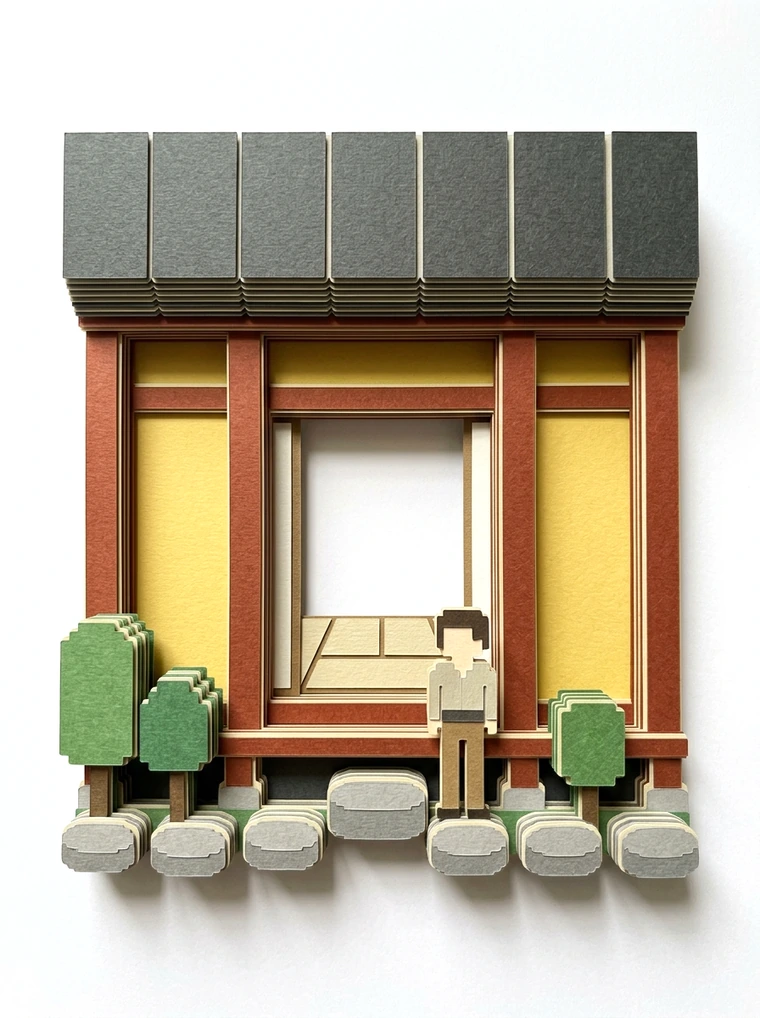
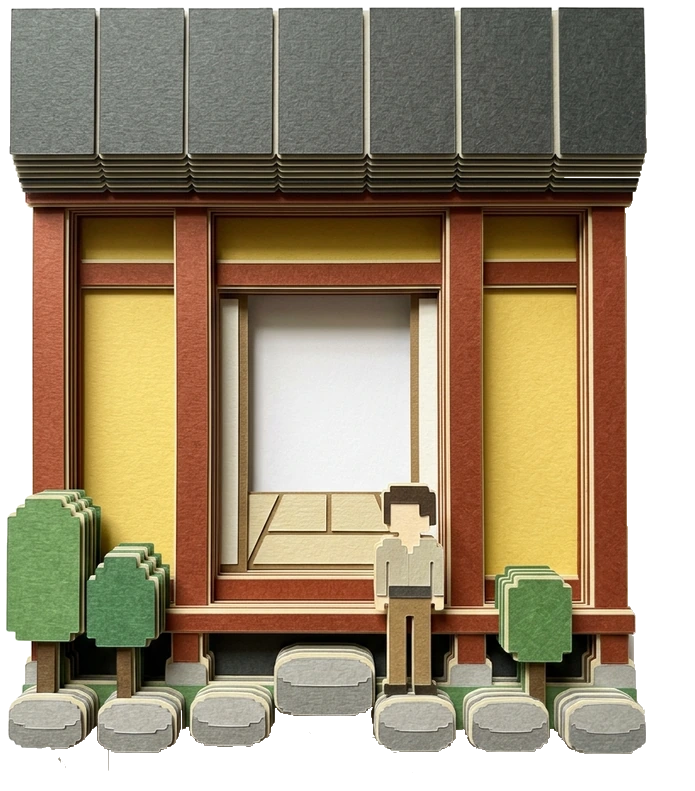
地を完全に白へ抜き、帯では組みを版から出っ張らせる
隣の画素との差で広げる塗りつぶしに変え、なだらかな影の縁で切れないようにした。
二枚は同じ枠で切る。帯では絵を版に刷らず、手前へ浮かせた板として置く。

diff --git a/src/webgl/Ribbon.tsx b/src/webgl/Ribbon.tsx
@@ -13,6 +13,8 @@ import {
   plateVertexShader,
   shadowFragmentShader,
   shadowVertexShader,
+  artFragmentShader,
+  artVertexShader,
 } from "./shaders";
 import { plateParamsFor } from "@/lib/plateParams";
 import { labelTexture, plateLabel } from "./labelTexture";
@@ -30,6 +32,9 @@ const DEPTH_K = 1.5; // 奥行きへの倒し込み
 const LERP = 0.1; // ポインタ／ドラッグ追従
 const HOVER_SHIFT = 0.26;
 const SHADOW_PAD = 1.34;
+// 組みを版から浮かせる高さ。判面の幅を100mmとみて、だいたい1cmぶん。
+// 斜めから見たときに、版から出っ張っていることが分かる量。
+const ART_LIFT = 0.11;
 
 const PAPER = new THREE.Color("#fffefb");
 const INK = new THREE.Color("#121110");
@@ -43,6 +48,10 @@ type Tile = {
   mesh: THREE.Mesh<THREE.PlaneGeometry, THREE.ShaderMaterial>;
   shadow: THREE.Mesh<THREE.PlaneGeometry, THREE.ShaderMaterial>;
   hit: THREE.Mesh;
+  /** 版から浮かせて置く組みと、その影。絵を持つCASEだけ。 */
+  art: THREE.Mesh<THREE.PlaneGeometry, THREE.ShaderMaterial> | null;
+  artShadow: THREE.Mesh<THREE.PlaneGeometry, THREE.ShaderMaterial> | null;
+  artReady: (() => boolean) | null;
   progress: { v: number };
   fade: { v: number };
   hovered: boolean;
@@ -149,7 +158,6 @@ export default function Ribbon({
     );
     const hitGeometry = new THREE.PlaneGeometry(CARD_W * 1.02, CARD_H * 1.02, 1, 1);
     const tiles: Tile[] = [];
-    const tilesArt: { art: ReturnType<typeof artFor>; material: THREE.ShaderMaterial }[] = [];
     const ribbon = Array.from({ length: cases.length * REPEATS }, (_, i) => i);
     const HALF = (ribbon.length * SPACING) / 2;
 
@@ -188,8 +196,6 @@ export default function Ribbon({
           uHasArt: { value: 0 },
         },
       });
-      // 絵は非同期で届く。届くまでは作図プログラムの絵を見せておく。
-      if (art) tilesArt.push({ art, material });
 
       const mesh = new THREE.Mesh(geometry, material);
 
@@ -216,6 +222,50 @@ export default function Ribbon({
       shifter.add(shadow);
       shifter.add(mesh);
 
+      // 絵を持つCASEは、版に刷らずに版の手前へ浮かせて置く。
+      // こうすると斜めから見たとき、組みが版から出っ張って見える。
+      let artMesh: THREE.Mesh<THREE.PlaneGeometry, THREE.ShaderMaterial> | null = null;
+      let artShadow: THREE.Mesh<THREE.PlaneGeometry, THREE.ShaderMaterial> | null = null;
+      if (art) {
+        const uniforms = () => ({
+          uArtA: { value: art.before },
+          uArtB: { value: art.after },
+          uProgress: { value: 0 },
+          uFade: { value: 1 },
+          uAppear: { value: 0 },
+          uShadow: { value: 0 },
+        });
+        const artMat = new THREE.ShaderMaterial({
+          vertexShader: artVertexShader,
+          fragmentShader: artFragmentShader,
+          transparent: true,
+          depthWrite: false,
+          uniforms: uniforms(),
+        });
+        const shMat = new THREE.ShaderMaterial({
+          vertexShader: artVertexShader,
+          fragmentShader: artFragmentShader,
+          transparent: true,
+          depthWrite: false,
+          uniforms: { ...uniforms(), uShadow: { value: 1 } },
+        });
+        // 版のどこに、どの大きさで置くか。plateの作画と合わせる。
+        const ar = CARD_W / CARD_H;
+        const hx = 0.5 * ar - 0.04;
+        const rw = 2 * hx * CARD_H;
+        const rh = 2 * 0.398 * CARD_H;
+        const a = art.aspect || 1;
+        const w = a > rw / rh ? rw : rh * a;
+        const h = a > rw / rh ? rw / a : rh;
+        const g = new THREE.PlaneGeometry(w, h, 1, 1);
+        artMesh = new THREE.Mesh(g, artMat);
+        artMesh.position.set(0, -0.012 * CARD_H, ART_LIFT);
+        artShadow = new THREE.Mesh(g, shMat);
+        artShadow.position.set(0, -0.012 * CARD_H, 0.004);
+        shifter.add(artShadow);
+        shifter.add(artMesh);
+      }
+
       const hit = new THREE.Mesh(
         hitGeometry,
         new THREE.MeshBasicMaterial({
@@ -238,6 +288,9 @@ export default function Ribbon({
         shifter,
         mesh,
         shadow,
+        art: artMesh,
+        artShadow,
+        artReady: art ? () => art.ready : null,
         hit,
         progress: { v: 0 },
         fade: { v: 1 },
@@ -436,12 +489,6 @@ export default function Ribbon({
       const t = clock.getElapsedTime();
       const aspect = host.clientWidth / host.clientHeight;
 
-      // 届いた絵を版へ渡す
-      tilesArt.forEach((e) => {
-        if (e.art?.ready && e.material.uniforms.uHasArt.value < 0.5) {
-          e.material.uniforms.uHasArt.value = 1;
-        }
-      });
 
       // ホイールとドラッグを一本の進行量にまとめて追従させる
       const target = state.dragX - state.dragY;
@@ -523,6 +570,17 @@ export default function Ribbon({
         u.uFade.value = wrapFade * tile.fade.v;
         const su = tile.shadow.material.uniforms;
         su.uFade.value = wrapFade * tile.fade.v;
+
+        // 浮かせた組みも、版と同じように進み・消え・出現に従う
+        if (tile.art && tile.artShadow) {
+          const on = tile.artReady?.() ? 1 : 0;
+          [tile.art, tile.artShadow].forEach((m) => {
+            const au = m.material.uniforms;
+            au.uProgress.value = tile.progress.v;
+            au.uFade.value = wrapFade * tile.fade.v;
+            au.uAppear.value = u.uAppear.value * on;
+          });
+        }
         su.uAppear.value = u.uAppear.value;
         tile.hit.visible = wrapFade > 0.6 && tile.fade.v > 0.5;
 
@@ -598,6 +656,9 @@ export default function Ribbon({
         gsap.killTweensOf(tile.fade);
         tile.mesh.material.dispose();
         tile.shadow.material.dispose();
+        tile.art?.material.dispose();
+        tile.artShadow?.material.dispose();
+        tile.art?.geometry.dispose();
         (tile.hit.material as THREE.Material).dispose();
       });
       geometry.dispose();

diff --git a/src/webgl/shaders.ts b/src/webgl/shaders.ts
@@ -672,3 +672,48 @@ export const shadowFragmentShader = /* glsl */ `
     gl_FragColor = vec4(0.07, 0.065, 0.06, a);
   }
 `;
+
+/**
+ * 版から浮かせて置く組み。
+ * 帯では版の面より手前に出すので、斜めから見ると版から出っ張って見える。
+ * uShadow を立てると、同じ形を版の上に落ちる影として描く。
+ */
+export const artVertexShader = plateVertexShader;
+
+export const artFragmentShader = /* glsl */ `
+  precision highp float;
+
+  uniform sampler2D uArtA;
+  uniform sampler2D uArtB;
+  uniform float uProgress;
+  uniform float uFade;
+  uniform float uAppear;
+  uniform float uShadow;
+
+  varying vec2 vUv;
+
+  void main() {
+    float t = uProgress;
+    float te = t * t * (3.0 - 2.0 * t);
+
+    if (uShadow > 0.5) {
+      // 版の上に落ちる影。形を右下へずらして、数点ぼかす。
+      vec2 so = vec2(-0.022, 0.028);
+      float a = 0.0;
+      a += texture2D(uArtA, vUv + so).a;
+      a += texture2D(uArtA, vUv + so + vec2(0.018, 0.0)).a;
+      a += texture2D(uArtA, vUv + so - vec2(0.018, 0.0)).a;
+      a += texture2D(uArtA, vUv + so + vec2(0.0, 0.018)).a;
+      a += texture2D(uArtA, vUv + so - vec2(0.0, 0.018)).a;
+      float al = clamp(a / 5.0, 0.0, 1.0) * 0.20 * uFade * uAppear;
+      if (al < 0.003) discard;
+      gl_FragColor = vec4(0.34, 0.32, 0.30, al);
+      return;
+    }
+
+    vec4 c = mix(texture2D(uArtA, vUv), texture2D(uArtB, vUv), te);
+    float al = clamp(c.a, 0.0, 1.0) * uFade * uAppear;
+    if (al < 0.003) discard;
+    gl_FragColor = vec4(c.rgb, al);
+  }
+`;

diff --git a/src/webgl/plateArtVersion.ts b/src/webgl/plateArtVersion.ts
@@ -1,5 +1,5 @@
 // tools/shrink-plate.py が書き出す。直接いじらない。
 // 絵の中身から作った版番号。URLに付けて、古い絵が居座るのを防ぐ。
 export const PLATE_ART_VERSION: Record<string, string> = {
-  "01": "8b52e456e6"
+  "01": "f5e46e7c68"
 } as const;

diff --git a/tools/shrink-plate.py b/tools/shrink-plate.py
@@ -3,10 +3,9 @@
 
     python3 tools/shrink-plate.py 01
 
-**白抜きはしない。** 紙の上に落ちた影の縁で切れてぎざつくため。
-かわりに四隅から地の色を測り、そこが255になるように全体を持ち上げる。
-地が版の紙と同じ白になるので、そのまま敷いても継ぎ目が出ない。
-影は地より暗いぶんだけ残る。
+地を抜いて透過にする。**隣の画素との差**で広げる塗りつぶしなので、
+紙の上のなだらかな影も最後まで追えて、切り紙の硬い縁で止まる。
+版の紙がそのまま地になり、背景は完全に白になる。
 """
 import hashlib
 import json
@@ -15,30 +14,79 @@ import re
 import sys
 
 import numpy as np
-from PIL import Image
+from PIL import Image, ImageFilter
 
 ID = sys.argv[1] if len(sys.argv) > 1 else "01"
 VERSION_TS = "src/webgl/plateArtVersion.ts"
 
+def peel(img):
+    """縁からつながっている地を抜く。
+
+    しきい値を「種の色との差」で測ると、紙の上に落ちた影のところで切れて
+    ぎざつく。ここでは**隣の画素との差**で広げるので、なだらかな影は最後まで
+    追えて、切り紙の硬い縁でぴたりと止まる。
+    """
+    from collections import deque
+
+    a = np.asarray(img).astype(np.int16)
+    h, w, _ = a.shape
+    seen = np.zeros((h, w), dtype=bool)
+    q = deque()
+
+    for x in range(w):
+        for y in (0, h - 1):
+            if not seen[y, x]:
+                seen[y, x] = True
+                q.append((y, x))
+    for y in range(h):
+        for x in (0, w - 1):
+            if not seen[y, x]:
+                seen[y, x] = True
+                q.append((y, x))
+
+    tol = 6  # 隣の画素とこれだけ違ってよい
+    while q:
+        y, x = q.popleft()
+        c = a[y, x]
+        for dy, dx in ((1, 0), (-1, 0), (0, 1), (0, -1)):
+            ny, nx = y + dy, x + dx
+            if 0 <= ny < h and 0 <= nx < w and not seen[ny, nx]:
+                if int(np.abs(a[ny, nx] - c).max()) <= tol:
+                    seen[ny, nx] = True
+                    q.append((ny, nx))
+    return seen
+
+
+# 二枚は溶かし合わせるので、**同じ枠で切る**。別々に切ると、
+# 変容前と実行後で組みの位置がずれる。
+cut = {}
+boxes = []
 for name in (f"{ID}-before", f"{ID}-after"):
     src = Image.open(f"tools/plates-src/{name}.png").convert("RGB")
-
-    # 地の色は四隅から取る（まっ白とはかぎらない）
-    corners = [src.getpixel(p) for p in
-               ((2, 2), (src.width - 3, 2), (2, src.height - 3), (src.width - 3, src.height - 3))]
-    ground = tuple(int(np.median([c[i] for c in corners])) for i in range(3))
-
-    # 抜かずに、地を版の紙と同じ白へ合わせる。
-    # 抜こうとすると、紙の上に落ちた影の縁で切れてぎざつく（実際に出た）。
-    gain = 255.0 / max(1, int(np.mean(ground)))
-    arr = np.asarray(src).astype(np.float32) * gain
-    out = Image.fromarray(np.clip(arr, 0, 255).astype(np.uint8), "RGB")
-
     w = 760
-    out = out.resize((w, round(w * out.height / out.width)), Image.LANCZOS)
+    src = src.resize((w, round(w * src.height / src.width)), Image.LANCZOS)
+
+    bg = peel(src)
+    alpha = Image.fromarray(np.where(bg, 0, 255).astype(np.uint8), "L")
+    alpha = alpha.filter(ImageFilter.GaussianBlur(0.7))
+    alpha = alpha.point(lambda v: 0 if v < 90 else min(255, int((v - 90) * 255 / 130)))
+
+    out = src.convert("RGBA")
+    out.putalpha(alpha)
+    cut[name] = out
+    boxes.append(Image.fromarray(np.array(alpha)).getbbox())
+
+box = (min(b[0] for b in boxes), min(b[1] for b in boxes),
+       max(b[2] for b in boxes), max(b[3] for b in boxes))
+
+for name, img in cut.items():
+    out = img.crop(box)
+    edge = 6
+    framed = Image.new("RGBA", (out.width + edge * 2, out.height + edge * 2), (255, 255, 255, 0))
+    framed.paste(out, (edge, edge))
     path = f"public/plates/{name}.webp"
-    out.save(path, "WEBP", quality=92, method=6)
-    print(name, "地", ground, "→白", out.size, os.path.getsize(path), "bytes")
+    framed.save(path, "WEBP", quality=92, method=6)
+    print(name, framed.size, os.path.getsize(path), "bytes")
 
 
 # 絵を差し替えてもURLが同じだと、ブラウザが古い絵を返し続ける。
